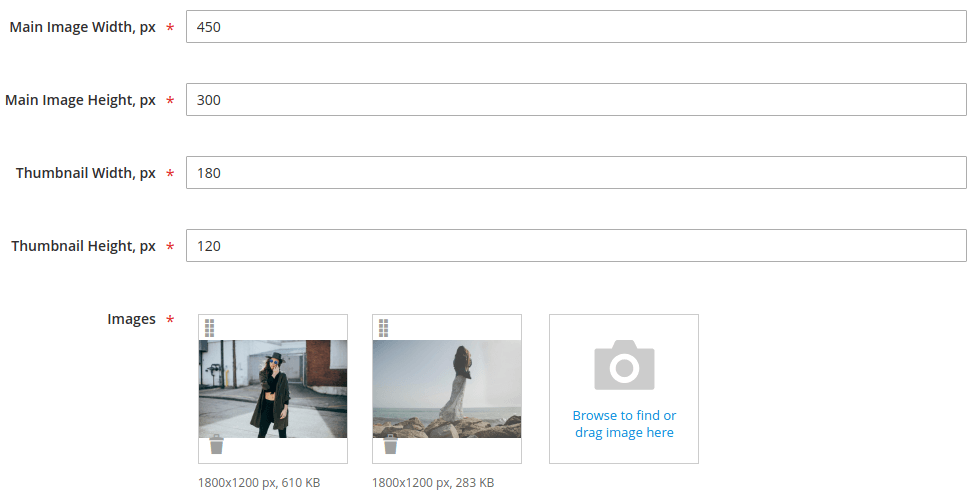
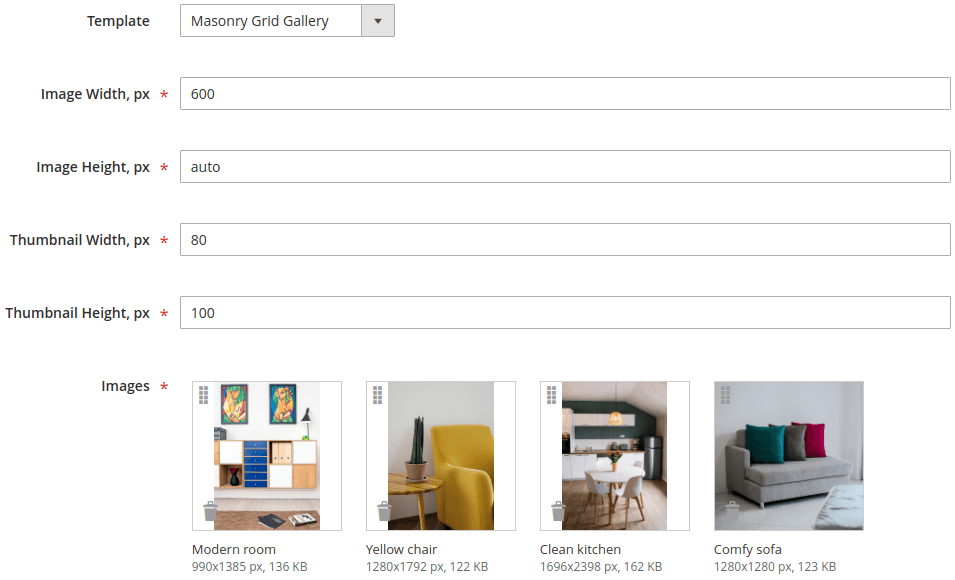
Lightbox Pro 1.3.0 release changes

diff --git a/m2/extensions/lightboxpro/widget.md b/m2/extensions/lightboxpro/widget.md
@@ -12,13 +12,22 @@ category: Lightbox Pro
 
 You can insert gallery widget in WYSIWYG editor or using `Content > Widgets` page.
 
-![Gallery Widget](/images/m2/lightboxpro/widget/gallery.png)
+You can choose between two gallery layouts:
+
+*Default Magento Gallery:*
+
+![Default Magento Gallery](/images/m2/lightboxpro/widget/gallery.png)
+
+*Masonry Grid Gallery:*
+
+![Masonry Grid Gallery](/images/m2/lightboxpro/widget/masonry.png)
 
 ### Gallery Widget Configuration
 
 ![Gallery Widget Configuration](/images/m2/lightboxpro/widget/gallery-config.png)
 
- - `Main Image Width/Height` - set main gallery image size
+ - `Template` - select the look of the gallery: default Magento or masonry grid layout
+ - `Image Width/Height` - set main gallery image size
  - `Thumbnail Width/Height` - set thumbnail image size
  - `Images` - upload gallery images. You can upload multiple images at once.
 To assign image alt text, click on uploaded image thumbnail.

diff --git a/m2/extensions/lightboxpro/known-issues.md b/m2/extensions/lightboxpro/known-issues.md
@@ -8,11 +8,6 @@ category: Lightbox Pro
 
 # Known Issues
 
-### Magento_ProductVideo/js/fotorama-add-video-events rewrite
-
-Lightbox Pro rewrites `Magento_ProductVideo/js/fotorama-add-video-events` to fix gallery
-issues on configurable product pages. This issue was fixed in Magento versions 2.2.4 and 2.1.13.
-
 ### Magento Magnifier Widget
 
 Zoom feature does not work when using multiple galleries on same page, because
@@ -20,4 +15,4 @@ Zoom feature does not work when using multiple galleries on same page, because
 
 Because of this issue, using gallery widget on product page is not recommended.
 
-[magnifier_widget]: http://devdocs.magento.com/guides/v2.2/javascript-dev-guide/widgets/widget_gallery_mg.html
+[magnifier_widget]: https://devdocs.magento.com/guides/v2.4/javascript-dev-guide/widgets/widget_gallery_mg.html

diff --git a/m2/extensions/lightboxpro/changelog.md b/m2/extensions/lightboxpro/changelog.md
@@ -8,6 +8,14 @@ category: Lightbox Pro
 
 # Changelog
 
+### Version 1.3.0
+
+> Nov 25, 2020
+
+ - Added new masonry template for the gallery widget
+ - Styles refactoring
+ - Keep frame for resized image only when both sides are set
+
 ### Version 1.2.13
 
 > Oct 19, 2020
